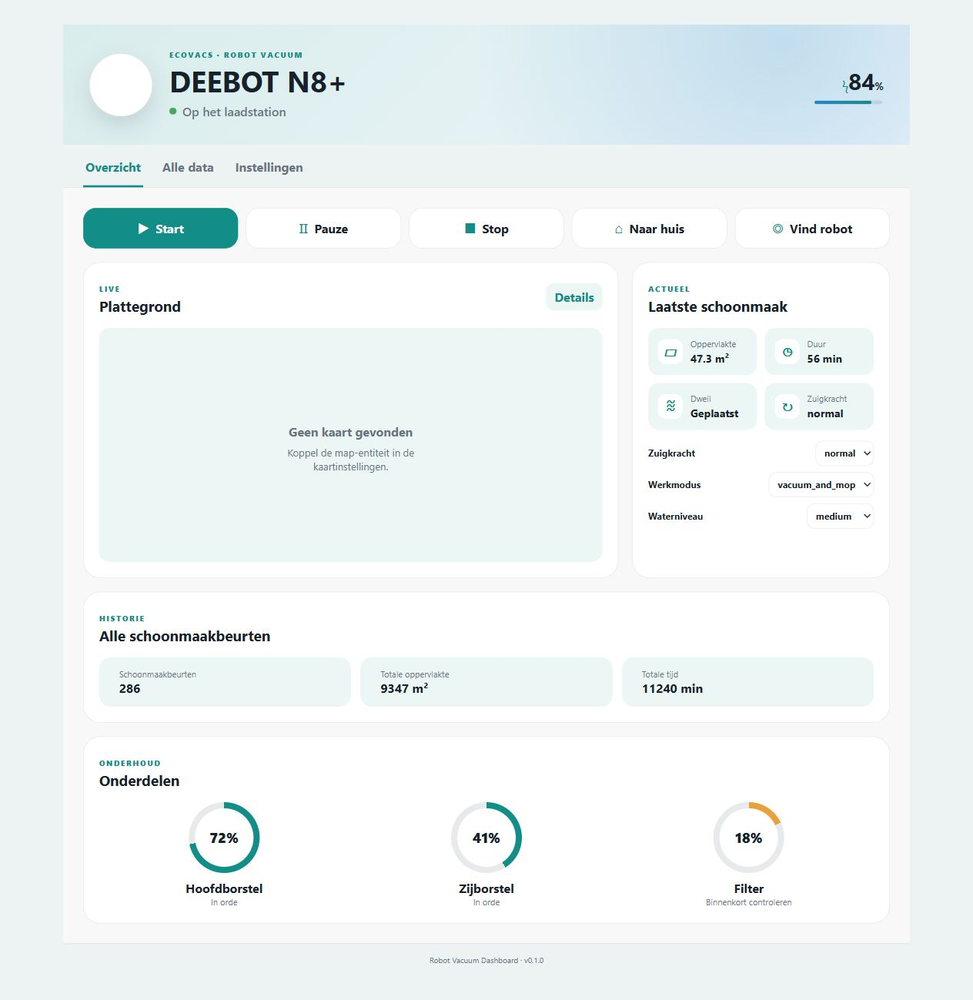
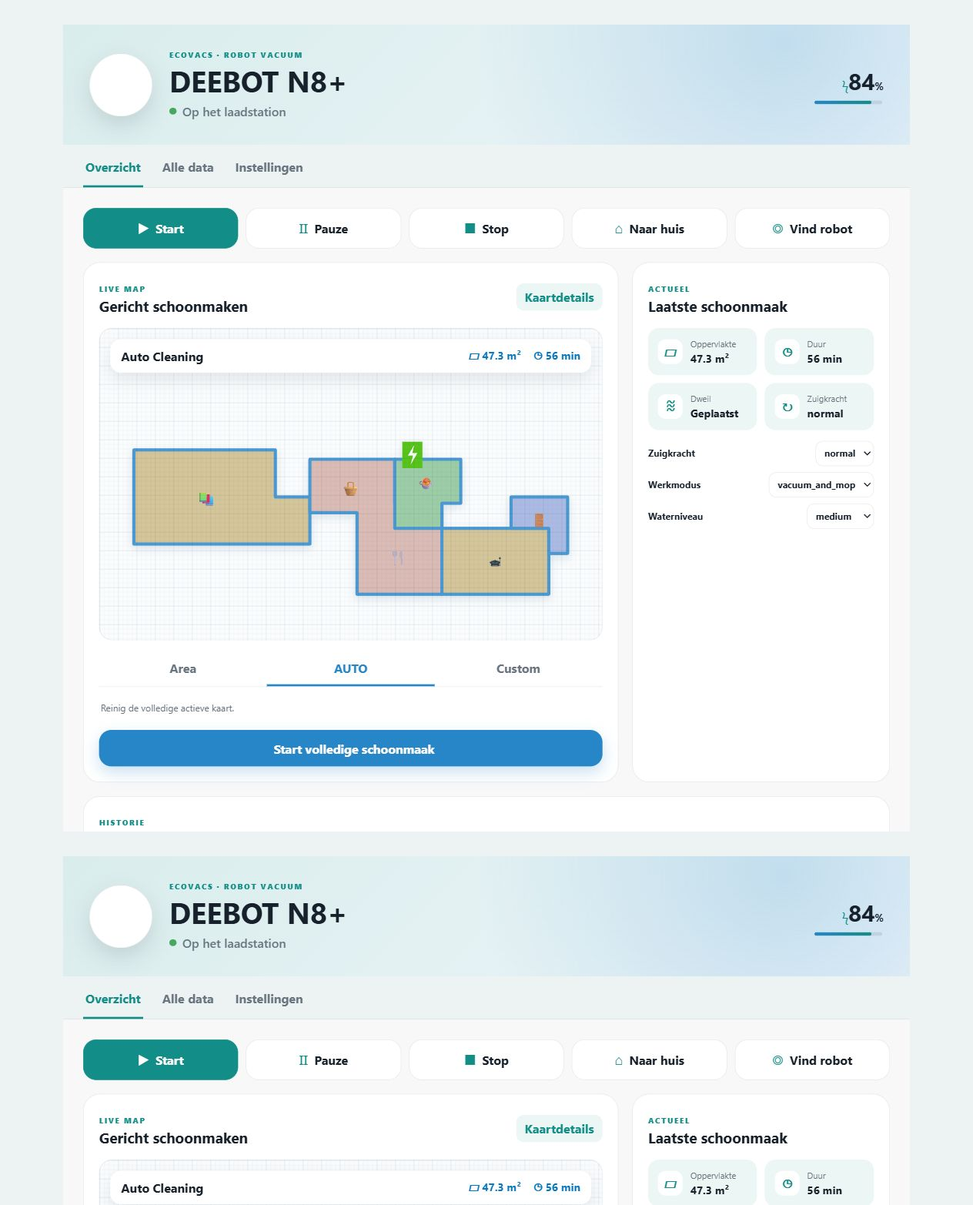
Add targeted area and region cleaning

diff --git a/robot-vacuum-dashboard.js b/robot-vacuum-dashboard.js
@@ -1,4 +1,4 @@
-const ROBOT_VACUUM_DASHBOARD_VERSION = "0.1.1";
+const ROBOT_VACUUM_DASHBOARD_VERSION = "0.2.0";
 
 const RVD_LABELS = {
   cleaning: "Aan het schoonmaken",
@@ -43,6 +43,9 @@ class RobotVacuumDashboardCard extends HTMLElement {
     super();
     this.attachShadow({ mode: "open" });
     this._tab = "overview";
+    this._cleanMode = "auto";
+    this._selectedAreas = new Set();
+    this._selectedRegion = null;
     this._renderQueued = false;
   }
 
@@ -55,6 +58,9 @@ class RobotVacuumDashboardCard extends HTMLElement {
       confirm_actions: true,
       show_map: true,
       show_details: true,
+      cleaning_areas: [],
+      cleaning_regions: [],
+      region_command: "custom_area",
       entities: {},
       ...config,
     };
@@ -212,8 +218,12 @@ class RobotVacuumDashboardCard extends HTMLElement {
       </section>
       <div class="dashboard-grid ${!this.config.show_map ? "without-map" : ""}">
         ${this.config.show_map ? `<section class="panel map-panel">
-          <div class="panel-heading"><div><span class="kicker">LIVE</span><h2>Plattegrond</h2></div>${map ? `<button class="text-button" data-more-info="${rvdEscape(map.entity_id)}">Details</button>` : ""}</div>
-          ${mapUrl ? `<img class="map" src="${rvdEscape(mapUrl)}" alt="Kaart van de schoonmaakzone">` : `<div class="empty"><ha-icon icon="mdi:map-outline"></ha-icon><strong>Geen kaart gevonden</strong><span>Koppel de map-entiteit in de kaartinstellingen.</span></div>`}
+          <div class="panel-heading"><div><span class="kicker">LIVE MAP</span><h2>Gericht schoonmaken</h2></div>${map ? `<button class="text-button" data-more-info="${rvdEscape(map.entity_id)}">Kaartdetails</button>` : ""}</div>
+          <div class="map-stage">
+            <div class="session-card"><span>${this._cleanMode === "area" ? "Area Cleaning" : this._cleanMode === "custom" ? "Custom Cleaning" : "Auto Cleaning"}</span><div><b>${this._icon("area")} ${rvdEscape(this._formatState(this._state("cleaning_area"), "–"))}</b><b>${this._icon("time")} ${rvdEscape(this._formatState(this._state("cleaning_time"), "–"))}</b></div></div>
+            ${mapUrl ? `<img class="map" src="${rvdEscape(mapUrl)}" alt="Kaart van de schoonmaakzone">` : `<div class="empty map-empty"><ha-icon icon="mdi:map-outline"></ha-icon><strong>Geen kaart gevonden</strong><span>Koppel de map-entiteit in de kaartinstellingen.</span></div>`}
+          </div>
+          ${this._cleaningModePanel()}
         </section>` : ""}
         <section class="panel stats-panel">
           <div class="panel-heading"><div><span class="kicker">ACTUEEL</span><h2>Laatste schoonmaak</h2></div></div>
@@ -235,6 +245,39 @@ class RobotVacuumDashboardCard extends HTMLElement {
         </div>
       </section>
       ${this._maintenancePanel()}` : ""}`;
+  }
+
+  _cleaningModePanel() {
+    const areas = Array.isArray(this.config.cleaning_areas) ? this.config.cleaning_areas : [];
+    const regions = Array.isArray(this.config.cleaning_regions) ? this.config.cleaning_regions : [];
+    const modeContent = this._cleanMode === "area"
+      ? (areas.length ? `<div class="target-grid">${areas.map((area) => `<button class="target-chip ${this._selectedAreas.has(area.id) ? "selected" : ""}" data-area-id="${rvdEscape(area.id)}"><ha-icon icon="${rvdEscape(area.icon || "mdi:floor-plan")}"></ha-icon><span>${rvdEscape(area.name || area.id)}</span></button>`).join("")}</div>` : `<p class="target-help">Voeg Home Assistant area-ID's toe via de kaarteditor.</p>`)
+      : this._cleanMode === "custom"
+        ? (regions.length ? `<div class="target-grid">${regions.map((region, index) => `<button class="target-chip ${this._selectedRegion === index ? "selected" : ""}" data-region-index="${index}"><ha-icon icon="${rvdEscape(region.icon || "mdi:vector-rectangle")}"></ha-icon><span>${rvdEscape(region.name || `Zone ${index + 1}`)}</span></button>`).join("")}</div>` : `<p class="target-help">Voeg opgeslagen Ecovacs-coördinaten toe via de kaarteditor.</p>`)
+        : `<p class="target-help">Reinig de volledige actieve kaart.</p>`;
+    const disabled = (this._cleanMode === "area" && !this._selectedAreas.size) || (this._cleanMode === "custom" && this._selectedRegion === null);
+    return `<div class="cleaning-console"><div class="mode-tabs"><button class="${this._cleanMode === "area" ? "active" : ""}" data-clean-mode="area">Area</button><button class="${this._cleanMode === "auto" ? "active" : ""}" data-clean-mode="auto">AUTO</button><button class="${this._cleanMode === "custom" ? "active" : ""}" data-clean-mode="custom">Custom</button></div><div class="target-content">${modeContent}</div><button class="clean-start" data-clean-start ${disabled ? "disabled" : ""}><ha-icon icon="mdi:robot-vacuum"></ha-icon><span>${this._cleanMode === "area" ? "Reinig geselecteerde kamers" : this._cleanMode === "custom" ? "Reinig geselecteerde zone" : "Start volledige schoonmaak"}</span></button></div>`;
+  }
+
+  async _startTargetedCleaning() {
+    if (this._cleanMode === "auto") return this._call("vacuum.start");
+    if (this._cleanMode === "area") {
+      const ids = [...this._selectedAreas];
+      if (!ids.length) return;
+      if (this.config.confirm_actions && !window.confirm(`Wil je ${ids.length} geselecteerde ruimte${ids.length === 1 ? "" : "s"} reinigen?`)) return;
+      await this._hass.callService("vacuum", "clean_area", { cleaning_area_id: ids }, { entity_id: this.config.entity });
+      return;
+    }
+    const region = this.config.cleaning_regions?.[this._selectedRegion];
+    if (!region?.coordinates) return;
+    if (this.config.confirm_actions && !window.confirm(`Wil je de zone ${region.name || "Custom"} reinigen?`)) return;
+    const cleanCountState = this._state("clean_count");
+    const cleanings = Number(cleanCountState?.state || region.cleanings || 1);
+    const coordinates = Array.isArray(region.coordinates) ? region.coordinates.join(",") : String(region.coordinates);
+    await this._hass.callService("vacuum", "send_command", {
+      command: region.command || this.config.region_command || "custom_area",
+      params: { coordinates, cleanings },
+    }, { entity_id: this.config.entity });
   }
 
   _actionButton(service, icon, label, kind = "") {
@@ -316,6 +359,10 @@ class RobotVacuumDashboardCard extends HTMLElement {
     this.shadowRoot.querySelectorAll("[data-tab]").forEach((button) => button.addEventListener("click", () => { this._tab = button.dataset.tab; this._render(); }));
     this.shadowRoot.querySelectorAll("[data-service]").forEach((button) => button.addEventListener("click", () => this._call(button.dataset.service)));
     this.shadowRoot.querySelectorAll("[data-more-info]").forEach((button) => button.addEventListener("click", () => this._moreInfo(button.dataset.moreInfo)));
+    this.shadowRoot.querySelectorAll("[data-clean-mode]").forEach((button) => button.addEventListener("click", () => { this._cleanMode = button.dataset.cleanMode; this._render(); }));
+    this.shadowRoot.querySelectorAll("[data-area-id]").forEach((button) => button.addEventListener("click", () => { const id = button.dataset.areaId; this._selectedAreas.has(id) ? this._selectedAreas.delete(id) : this._selectedAreas.add(id); this._render(); }));
+    this.shadowRoot.querySelectorAll("[data-region-index]").forEach((button) => button.addEventListener("click", () => { this._selectedRegion = Number(button.dataset.regionIndex); this._render(); }));
+    this.shadowRoot.querySelector("[data-clean-start]")?.addEventListener("click", () => this._startTargetedCleaning());
     this.shadowRoot.querySelectorAll("[data-toggle]").forEach((button) => button.addEventListener("click", async () => {
       const id = button.dataset.toggle;
       await this._hass.callService("switch", this._hass.states[id]?.state === "on" ? "turn_off" : "turn_on", {}, { entity_id: id });
@@ -328,8 +375,8 @@ class RobotVacuumDashboardCard extends HTMLElement {
 
   _styles() {
     return `
-      :host{--accent:var(--primary-color,#138d88);--accent-2:#2786c7;--ink:var(--primary-text-color,#17212b);--muted:var(--secondary-text-color,#6c7782);--surface:var(--ha-card-background,var(--card-background-color,#fff));--soft:color-mix(in srgb,var(--accent) 8%,var(--surface));--line:color-mix(in srgb,var(--ink) 10%,transparent);--danger:var(--error-color,#d84b4b);--warning:#e9a23b;display:block}*{box-sizing:border-box}ha-card{overflow:hidden;border-radius:28px;background:var(--surface);color:var(--ink);font-family:var(--paper-font-body1_-_font-family,system-ui,sans-serif)}button,select{font:inherit;color:inherit}.hero{min-height:156px;padding:30px 34px;display:flex;align-items:center;gap:22px;background:radial-gradient(circle at 85% 15%,color-mix(in srgb,var(--accent-2) 20%,transparent),transparent 42%),linear-gradient(135deg,color-mix(in srgb,var(--accent) 16%,var(--surface)),color-mix(in srgb,var(--accent-2) 8%,var(--surface)))}.hero-error{background:linear-gradient(135deg,color-mix(in srgb,var(--danger) 15%,var(--surface)),var(--surface))}.robot{width:82px;height:82px;border-radius:50%;display:grid;place-items:center;background:var(--surface);box-shadow:0 12px 30px color-mix(in srgb,var(--ink) 14%,transparent);border:1px solid var(--line)}.robot ha-icon{--mdc-icon-size:48px;color:var(--accent)}.robot.working{animation:rvdPulse 2s infinite}.hero-copy{min-width:0;flex:1}.eyebrow,.kicker{font-size:10px;letter-spacing:.16em;font-weight:800;color:var(--accent)}h1,h2,p{margin:0}h1{font-size:clamp(25px,4vw,38px);line-height:1.12;margin:5px 0 8px}.hero p{display:flex;align-items:center;gap:8px;color:var(--muted);font-weight:600}.status-dot{width:9px;height:9px;border-radius:50%;background:var(--muted)}.status-dot.cleaning{background:var(--accent);box-shadow:0 0 0 5px color-mix(in srgb,var(--accent) 14%,transparent)}.status-dot.error{background:var(--danger)}.status-dot.docked{background:#47a760}.battery{text-align:right;min-width:90px}.battery>span{color:var(--accent)}.battery strong{font-size:30px}.battery small{font-weight:700}.battery-track{width:88px;height:5px;background:var(--line);border-radius:4px;margin-top:6px;overflow:hidden}.battery-track i{display:block;height:100%;background:linear-gradient(90deg,var(--accent-2),var(--accent));border-radius:4px}nav{display:flex;padding:0 26px;border-bottom:1px solid var(--line);gap:22px}.nav-button{border:0;background:none;padding:17px 3px 14px;color:var(--muted);font-weight:700;cursor:pointer;border-bottom:3px solid transparent}.nav-button.active{color:var(--accent);border-color:var(--accent)}main{padding:26px;background:color-mix(in srgb,var(--surface) 97%,var(--ink))}.actions{display:grid;grid-template-columns:repeat(5,1fr);gap:10px;margin-bottom:18px}.action{border:1px solid var(--line);background:var(--surface);border-radius:17px;padding:13px 8px;display:flex;align-items:center;justify-content:center;gap:8px;cursor:pointer;transition:.18s}.action:hover{transform:translateY(-2px);border-color:color-mix(in srgb,var(--accent) 50%,var(--line));box-shadow:0 8px 20px color-mix(in srgb,var(--ink) 8%,transparent)}.action span{color:var(--accent);font-size:18px}.action.primary{background:var(--accent);color:white;border-color:var(--accent)}.action.primary span{color:white}.dashboard-grid{display:grid;grid-template-columns:minmax(0,1.35fr) minmax(280px,.65fr);gap:18px}.dashboard-grid.without-map{grid-template-columns:1fr}.panel{background:var(--surface);border:1px solid var(--line);border-radius:22px;padding:20px;min-width:0}.panel-heading{display:flex;justify-content:space-between;align-items:center;margin-bottom:16px}.panel-heading h2{font-size:19px;margin-top:2px}.text-button{border:0;background:var(--soft);color:var(--accent);padding:7px 11px;border-radius:10px;cursor:pointer;font-weight:700}.map-panel{min-height:410px;display:flex;flex-direction:column}.map{width:100%;height:100%;min-height:330px;object-fit:contain;border-radius:14px;background:color-mix(in srgb,var(--ink) 4%,var(--surface))}.empty{flex:1;min-height:290px;display:flex;flex-direction:column;align-items:center;justify-content:center;text-align:center;color:var(--muted);gap:8px;background:var(--soft);border-radius:14px}.empty ha-icon{--mdc-icon-size:48px;color:var(--accent)}.empty span{font-size:13px;max-width:260px}.empty.compact{min-height:110px}.metric-grid{display:grid;grid-template-columns:1fr 1fr;gap:10px}.metric{background:var(--soft);padding:13px;border-radius:14px;display:flex;gap:10px;align-items:center}.metric-icon{width:32px;height:32px;display:grid;place-items:center;border-radius:10px;background:var(--surface);color:var(--accent);font-weight:800}.metric small,.total small,.life small{display:block;color:var(--muted);font-size:11px}.metric strong{display:block;margin-top:2px;font-size:14px}.control-list{margin-top:14px;display:grid;gap:8px}.control-list label{display:flex;justify-content:space-between;align-items:center;font-size:12px;font-weight:700}.control-list select{max-width:58%;border:1px solid var(--line);border-radius:10px;padding:7px;background:var(--surface)}.totals,.maintenance{margin-top:18px}.total-grid{display:grid;grid-template-columns:repeat(3,1fr);gap:12px}.total{display:flex;align-items:center;gap:12px;padding:14px;border-radius:15px;background:var(--soft)}.total ha-icon{color:var(--accent)}.total strong{font-size:16px}.maintenance-grid{display:grid;grid-template-columns:repeat(3,1fr);gap:16px}.life{text-align:center}.life>strong{display:block;margin-top:9px}.ring{--value:0;width:92px;height:92px;margin:auto;border-radius:50%;display:grid;place-items:center;background:conic-gradient(var(--ring) calc(var(--value)*1%),var(--line) 0);position:relative}.ring:before{content:"";position:absolute;inset:8px;border-radius:50%;background:var(--surface)}.ring span{position:relative;font-size:18px;font-weight:800}.alert{display:flex;gap:12px;align-items:center;background:color-mix(in srgb,var(--danger) 12%,var(--surface));border:1px solid color-mix(in srgb,var(--danger) 35%,transparent);border-radius:16px;padding:14px;margin-bottom:16px;color:var(--danger)}.alert div span{display:block;font-size:12px;margin-top:2px}.entity-list,.switch-list{display:grid}.entity-row,.switch-row{width:100%;border:0;border-bottom:1px solid var(--line);background:none;padding:13px 4px;display:flex;align-items:center;gap:12px;text-align:left;cursor:pointer}.entity-row:hover,.switch-row:hover{background:var(--soft)}.entity-row ha-icon,.switch-row ha-icon{color:var(--accent)}.entity-row>span{flex:1;min-width:0}.entity-row strong,.entity-row small{display:block;overflow:hidden;text-overflow:ellipsis}.entity-row small{color:var(--muted);font-size:10px;margin-top:2px}.entity-row>b{max-width:35%;text-align:right;font-size:12px}.count{font-size:11px;color:var(--muted)}.settings-grid{display:grid;grid-template-columns:1fr 1fr;gap:18px}.switch-row span{flex:1;font-weight:650}.toggle{width:38px;height:22px;border-radius:12px;background:var(--line);position:relative}.toggle:after{content:"";position:absolute;width:16px;height:16px;left:3px;top:3px;border-radius:50%;background:var(--surface);transition:.2s}.toggle.on{background:var(--accent)}.toggle.on:after{left:19px}.config-summary p{display:flex;justify-content:space-between;gap:12px;border-bottom:1px solid var(--line);padding:11px 0;font-size:12px}.config-summary strong{text-align:right;word-break:break-all}.hint{font-size:12px;color:var(--muted);margin-top:14px;line-height:1.5}footer{text-align:center;color:var(--muted);font-size:10px;padding:14px;border-top:1px solid var(--line)}.missing{padding:30px;color:var(--danger)}@keyframes rvdPulse{50%{box-shadow:0 0 0 10px color-mix(in srgb,var(--accent) 10%,transparent),0 12px 30px color-mix(in srgb,var(--ink) 14%,transparent)}}
-      @media(max-width:780px){.hero{padding:23px 20px}.robot{width:64px;height:64px}.robot ha-icon{--mdc-icon-size:38px}.battery{min-width:58px}.battery-track{width:58px}main{padding:15px}.dashboard-grid,.settings-grid{grid-template-columns:1fr}.actions{grid-template-columns:repeat(5,minmax(58px,1fr));overflow:auto}.action{flex-direction:column;gap:3px;font-size:10px}.map-panel{min-height:330px}.map{min-height:250px}.total-grid{grid-template-columns:1fr}.maintenance-grid{gap:8px}.ring{width:72px;height:72px}.panel{padding:16px}nav{padding:0 15px;gap:14px}.nav-button{font-size:12px}}
+      :host{--accent:var(--primary-color,#138d88);--accent-2:#2786c7;--ink:var(--primary-text-color,#17212b);--muted:var(--secondary-text-color,#6c7782);--surface:var(--ha-card-background,var(--card-background-color,#fff));--soft:color-mix(in srgb,var(--accent) 8%,var(--surface));--line:color-mix(in srgb,var(--ink) 10%,transparent);--danger:var(--error-color,#d84b4b);--warning:#e9a23b;display:block}*{box-sizing:border-box}ha-card{overflow:hidden;border-radius:28px;background:var(--surface);color:var(--ink);font-family:var(--paper-font-body1_-_font-family,system-ui,sans-serif)}button,select{font:inherit;color:inherit}.hero{min-height:156px;padding:30px 34px;display:flex;align-items:center;gap:22px;background:radial-gradient(circle at 85% 15%,color-mix(in srgb,var(--accent-2) 20%,transparent),transparent 42%),linear-gradient(135deg,color-mix(in srgb,var(--accent) 16%,var(--surface)),color-mix(in srgb,var(--accent-2) 8%,var(--surface)))}.hero-error{background:linear-gradient(135deg,color-mix(in srgb,var(--danger) 15%,var(--surface)),var(--surface))}.robot{width:82px;height:82px;border-radius:50%;display:grid;place-items:center;background:var(--surface);box-shadow:0 12px 30px color-mix(in srgb,var(--ink) 14%,transparent);border:1px solid var(--line)}.robot ha-icon{--mdc-icon-size:48px;color:var(--accent)}.robot.working{animation:rvdPulse 2s infinite}.hero-copy{min-width:0;flex:1}.eyebrow,.kicker{font-size:10px;letter-spacing:.16em;font-weight:800;color:var(--accent)}h1,h2,p{margin:0}h1{font-size:clamp(25px,4vw,38px);line-height:1.12;margin:5px 0 8px}.hero p{display:flex;align-items:center;gap:8px;color:var(--muted);font-weight:600}.status-dot{width:9px;height:9px;border-radius:50%;background:var(--muted)}.status-dot.cleaning{background:var(--accent);box-shadow:0 0 0 5px color-mix(in srgb,var(--accent) 14%,transparent)}.status-dot.error{background:var(--danger)}.status-dot.docked{background:#47a760}.battery{text-align:right;min-width:90px}.battery>span{color:var(--accent)}.battery strong{font-size:30px}.battery small{font-weight:700}.battery-track{width:88px;height:5px;background:var(--line);border-radius:4px;margin-top:6px;overflow:hidden}.battery-track i{display:block;height:100%;background:linear-gradient(90deg,var(--accent-2),var(--accent));border-radius:4px}nav{display:flex;padding:0 26px;border-bottom:1px solid var(--line);gap:22px}.nav-button{border:0;background:none;padding:17px 3px 14px;color:var(--muted);font-weight:700;cursor:pointer;border-bottom:3px solid transparent}.nav-button.active{color:var(--accent);border-color:var(--accent)}main{padding:26px;background:color-mix(in srgb,var(--surface) 97%,var(--ink))}.actions{display:grid;grid-template-columns:repeat(5,1fr);gap:10px;margin-bottom:18px}.action{border:1px solid var(--line);background:var(--surface);border-radius:17px;padding:13px 8px;display:flex;align-items:center;justify-content:center;gap:8px;cursor:pointer;transition:.18s}.action:hover{transform:translateY(-2px);border-color:color-mix(in srgb,var(--accent) 50%,var(--line));box-shadow:0 8px 20px color-mix(in srgb,var(--ink) 8%,transparent)}.action span{color:var(--accent);font-size:18px}.action.primary{background:var(--accent);color:white;border-color:var(--accent)}.action.primary span{color:white}.dashboard-grid{display:grid;grid-template-columns:minmax(0,1.35fr) minmax(280px,.65fr);gap:18px}.dashboard-grid.without-map{grid-template-columns:1fr}.panel{background:var(--surface);border:1px solid var(--line);border-radius:22px;padding:20px;min-width:0}.panel-heading{display:flex;justify-content:space-between;align-items:center;margin-bottom:16px}.panel-heading h2{font-size:19px;margin-top:2px}.text-button{border:0;background:var(--soft);color:var(--accent);padding:7px 11px;border-radius:10px;cursor:pointer;font-weight:700}.map-panel{min-height:410px;display:flex;flex-direction:column}.map-stage{position:relative;min-height:390px;overflow:hidden;border-radius:17px;border:1px solid var(--line);background-color:#fbfcfd;background-image:linear-gradient(rgba(64,116,150,.075) 1px,transparent 1px),linear-gradient(90deg,rgba(64,116,150,.075) 1px,transparent 1px),linear-gradient(rgba(64,116,150,.035) 1px,transparent 1px),linear-gradient(90deg,rgba(64,116,150,.035) 1px,transparent 1px);background-size:24px 24px,24px 24px,6px 6px,6px 6px}.map{width:100%;height:100%;min-height:390px;object-fit:contain;padding:70px 16px 12px;filter:drop-shadow(0 4px 6px rgba(24,88,128,.14));mix-blend-mode:multiply}.session-card{position:absolute;z-index:2;top:14px;left:14px;right:14px;padding:11px 14px;border-radius:14px;background:color-mix(in srgb,var(--surface) 94%,transparent);box-shadow:0 8px 24px rgba(25,57,75,.12);backdrop-filter:blur(8px);display:flex;align-items:center;justify-content:space-between;gap:12px}.session-card>span{font-weight:750}.session-card>div{display:flex;gap:16px;color:#0877bd}.session-card b{font-size:14px}.map-empty{min-height:390px;background:transparent}.cleaning-console{padding-top:14px}.mode-tabs{display:grid;grid-template-columns:repeat(3,1fr);border-bottom:1px solid var(--line)}.mode-tabs button{border:0;background:none;padding:11px;color:var(--muted);font-weight:650;cursor:pointer;border-bottom:3px solid transparent}.mode-tabs button.active{color:var(--accent-2);border-color:var(--accent-2)}.target-content{padding:12px 0;min-height:56px}.target-grid{display:flex;gap:8px;overflow:auto;padding:2px}.target-chip{flex:0 0 auto;border:1px solid var(--line);background:var(--surface);border-radius:13px;padding:9px 12px;display:flex;align-items:center;gap:7px;cursor:pointer}.target-chip ha-icon{color:var(--accent-2)}.target-chip.selected{border-color:var(--accent-2);background:color-mix(in srgb,var(--accent-2) 12%,var(--surface));color:var(--accent-2)}.target-help{font-size:12px;color:var(--muted);padding:7px 2px}.clean-start{width:100%;border:0;border-radius:16px;padding:13px;background:var(--accent-2);color:white;font-weight:750;display:flex;align-items:center;justify-content:center;gap:9px;cursor:pointer;box-shadow:0 8px 20px color-mix(in srgb,var(--accent-2) 25%,transparent)}.clean-start:disabled{opacity:.45;box-shadow:none;cursor:not-allowed}.empty{flex:1;min-height:290px;display:flex;flex-direction:column;align-items:center;justify-content:center;text-align:center;color:var(--muted);gap:8px;background:var(--soft);border-radius:14px}.empty ha-icon{--mdc-icon-size:48px;color:var(--accent)}.empty span{font-size:13px;max-width:260px}.empty.compact{min-height:110px}.metric-grid{display:grid;grid-template-columns:1fr 1fr;gap:10px}.metric{background:var(--soft);padding:13px;border-radius:14px;display:flex;gap:10px;align-items:center}.metric-icon{width:32px;height:32px;display:grid;place-items:center;border-radius:10px;background:var(--surface);color:var(--accent);font-weight:800}.metric small,.total small,.life small{display:block;color:var(--muted);font-size:11px}.metric strong{display:block;margin-top:2px;font-size:14px}.control-list{margin-top:14px;display:grid;gap:8px}.control-list label{display:flex;justify-content:space-between;align-items:center;font-size:12px;font-weight:700}.control-list select{max-width:58%;border:1px solid var(--line);border-radius:10px;padding:7px;background:var(--surface)}.totals,.maintenance{margin-top:18px}.total-grid{display:grid;grid-template-columns:repeat(3,1fr);gap:12px}.total{display:flex;align-items:center;gap:12px;padding:14px;border-radius:15px;background:var(--soft)}.total ha-icon{color:var(--accent)}.total strong{font-size:16px}.maintenance-grid{display:grid;grid-template-columns:repeat(3,1fr);gap:16px}.life{text-align:center}.life>strong{display:block;margin-top:9px}.ring{--value:0;width:92px;height:92px;margin:auto;border-radius:50%;display:grid;place-items:center;background:conic-gradient(var(--ring) calc(var(--value)*1%),var(--line) 0);position:relative}.ring:before{content:"";position:absolute;inset:8px;border-radius:50%;background:var(--surface)}.ring span{position:relative;font-size:18px;font-weight:800}.alert{display:flex;gap:12px;align-items:center;background:color-mix(in srgb,var(--danger) 12%,var(--surface));border:1px solid color-mix(in srgb,var(--danger) 35%,transparent);border-radius:16px;padding:14px;margin-bottom:16px;color:var(--danger)}.alert div span{display:block;font-size:12px;margin-top:2px}.entity-list,.switch-list{display:grid}.entity-row,.switch-row{width:100%;border:0;border-bottom:1px solid var(--line);background:none;padding:13px 4px;display:flex;align-items:center;gap:12px;text-align:left;cursor:pointer}.entity-row:hover,.switch-row:hover{background:var(--soft)}.entity-row ha-icon,.switch-row ha-icon{color:var(--accent)}.entity-row>span{flex:1;min-width:0}.entity-row strong,.entity-row small{display:block;overflow:hidden;text-overflow:ellipsis}.entity-row small{color:var(--muted);font-size:10px;margin-top:2px}.entity-row>b{max-width:35%;text-align:right;font-size:12px}.count{font-size:11px;color:var(--muted)}.settings-grid{display:grid;grid-template-columns:1fr 1fr;gap:18px}.switch-row span{flex:1;font-weight:650}.toggle{width:38px;height:22px;border-radius:12px;background:var(--line);position:relative}.toggle:after{content:"";position:absolute;width:16px;height:16px;left:3px;top:3px;border-radius:50%;background:var(--surface);transition:.2s}.toggle.on{background:var(--accent)}.toggle.on:after{left:19px}.config-summary p{display:flex;justify-content:space-between;gap:12px;border-bottom:1px solid var(--line);padding:11px 0;font-size:12px}.config-summary strong{text-align:right;word-break:break-all}.hint{font-size:12px;color:var(--muted);margin-top:14px;line-height:1.5}footer{text-align:center;color:var(--muted);font-size:10px;padding:14px;border-top:1px solid var(--line)}.missing{padding:30px;color:var(--danger)}@keyframes rvdPulse{50%{box-shadow:0 0 0 10px color-mix(in srgb,var(--accent) 10%,transparent),0 12px 30px color-mix(in srgb,var(--ink) 14%,transparent)}}
+      @media(max-width:780px){.hero{padding:23px 20px}.robot{width:64px;height:64px}.robot ha-icon{--mdc-icon-size:38px}.battery{min-width:58px}.battery-track{width:58px}main{padding:15px}.dashboard-grid,.settings-grid{grid-template-columns:1fr}.actions{grid-template-columns:repeat(5,minmax(58px,1fr));overflow:auto}.action{flex-direction:column;gap:3px;font-size:10px}.map-panel{min-height:330px}.map-stage,.map-empty{min-height:330px}.map{min-height:330px;padding-top:74px}.session-card{font-size:12px}.session-card>div{gap:9px}.session-card b{font-size:12px}.total-grid{grid-template-columns:1fr}.maintenance-grid{gap:8px}.ring{width:72px;height:72px}.panel{padding:16px}nav{padding:0 15px;gap:14px}.nav-button{font-size:12px}}
       @media(max-width:480px){.hero{display:grid;grid-template-columns:54px minmax(0,1fr);gap:5px 12px}.robot{width:54px;height:54px;grid-row:1 / span 2}.hero-copy{grid-column:2}.eyebrow{display:none}h1{font-size:21px}.battery{grid-column:2;display:flex;align-items:center;gap:2px;text-align:left;min-width:0}.battery strong{font-size:20px}.battery-track{width:70px;margin:0 0 0 7px}.metric-grid{grid-template-columns:1fr}.maintenance-grid{grid-template-columns:1fr 1fr 1fr}.life>strong{font-size:11px}.life small{display:none}.ring{width:64px;height:64px}.ring span{font-size:14px}}
     `;
   }
@@ -353,9 +400,12 @@ class RobotVacuumDashboardCardEditor extends HTMLElement {
       ["work_mode", "Werkmodus"], ["clean_count", "Aantal rondes"], ["error", "Foutstatus"],
       ["main_brush", "Hoofdborstel"], ["side_brush", "Zijborstel"], ["filter", "Filter"],
     ];
-    this.shadowRoot.innerHTML = `<style>:host{display:block;padding:8px 0;font-family:system-ui,sans-serif}.editor{display:grid;gap:14px}.group{border:1px solid var(--divider-color,#ddd);border-radius:12px;padding:14px}.group h3{font-size:14px;margin:0 0 12px}.field{display:grid;gap:5px;margin:10px 0}.field span{font-size:12px;color:var(--secondary-text-color)}input,select{width:100%;padding:10px;border:1px solid var(--divider-color,#ccc);border-radius:8px;background:var(--card-background-color,#fff);color:var(--primary-text-color);box-sizing:border-box}.checks{display:grid;grid-template-columns:1fr 1fr;gap:8px}.check{display:flex;align-items:center;gap:7px;font-size:12px}.check input{width:auto}</style><div class="editor"><div class="group"><h3>Robotstofzuiger</h3><label class="field"><span>Vacuümentiteit</span><select data-key="entity"><option value="">Kies een robot…</option>${vacuumOptions.map((id) => `<option value="${rvdEscape(id)}" ${this.config.entity === id ? "selected" : ""}>${rvdEscape(this._hass.states[id].attributes?.friendly_name || id)}</option>`).join("")}</select></label><label class="field"><span>Naam</span><input data-key="name" value="${rvdEscape(this.config.name || "")}" placeholder="Robotstofzuiger"></label><div class="checks">${[["confirm_actions","Acties bevestigen",true],["show_map","Kaart tonen",true],["show_details","Details tonen",true]].map(([key,label,defaultValue]) => `<label class="check"><input type="checkbox" data-key="${key}" ${(this.config[key] ?? defaultValue) ? "checked" : ""}>${label}</label>`).join("")}</div></div><details class="group"><summary><strong>Handmatige entiteitstoewijzing</strong></summary><p style="font-size:12px;color:var(--secondary-text-color)">Laat velden leeg om entiteiten automatisch te herkennen.</p>${fields.map(([key,label]) => `<label class="field"><span>${label}</span><input data-entity-key="${key}" value="${rvdEscape(this.config.entities?.[key] || "")}" placeholder="Automatisch"></label>`).join("")}</details></div>`;
+    const areaLines = (this.config.cleaning_areas || []).map((area) => `${area.name || area.id}|${area.id}|${area.icon || "mdi:floor-plan"}`).join("\n");
+    const regionLines = (this.config.cleaning_regions || []).map((region) => `${region.name || "Zone"}|${Array.isArray(region.coordinates) ? region.coordinates.join(",") : region.coordinates}|${region.icon || "mdi:vector-rectangle"}`).join("\n");
+    this.shadowRoot.innerHTML = `<style>:host{display:block;padding:8px 0;font-family:system-ui,sans-serif}.editor{display:grid;gap:14px}.group{border:1px solid var(--divider-color,#ddd);border-radius:12px;padding:14px}.group h3{font-size:14px;margin:0 0 12px}.field{display:grid;gap:5px;margin:10px 0}.field span,.help{font-size:12px;color:var(--secondary-text-color)}input,select,textarea{width:100%;padding:10px;border:1px solid var(--divider-color,#ccc);border-radius:8px;background:var(--card-background-color,#fff);color:var(--primary-text-color);box-sizing:border-box}textarea{min-height:92px;resize:vertical;font-family:ui-monospace,monospace;font-size:12px}.checks{display:grid;grid-template-columns:1fr 1fr;gap:8px}.check{display:flex;align-items:center;gap:7px;font-size:12px}.check input{width:auto}</style><div class="editor"><div class="group"><h3>Robotstofzuiger</h3><label class="field"><span>Vacuümentiteit</span><select data-key="entity"><option value="">Kies een robot…</option>${vacuumOptions.map((id) => `<option value="${rvdEscape(id)}" ${this.config.entity === id ? "selected" : ""}>${rvdEscape(this._hass.states[id].attributes?.friendly_name || id)}</option>`).join("")}</select></label><label class="field"><span>Naam</span><input data-key="name" value="${rvdEscape(this.config.name || "")}" placeholder="Robotstofzuiger"></label><div class="checks">${[["confirm_actions","Acties bevestigen",true],["show_map","Kaart tonen",true],["show_details","Details tonen",true]].map(([key,label,defaultValue]) => `<label class="check"><input type="checkbox" data-key="${key}" ${(this.config[key] ?? defaultValue) ? "checked" : ""}>${label}</label>`).join("")}</div></div><details class="group" open><summary><strong>Gericht schoonmaken</strong></summary><p class="help">Eén item per regel. Kamers: naam | Home Assistant area-ID | icoon. Zones: naam | x1,y1,x2,y2 | icoon.</p><label class="field"><span>Kamers</span><textarea data-collection="cleaning_areas" placeholder="Keuken|kitchen|mdi:silverware-fork-knife">${rvdEscape(areaLines)}</textarea></label><label class="field"><span>Opgeslagen zones</span><textarea data-collection="cleaning_regions" placeholder="Onder eettafel|-1339,-1511,296,-2587|mdi:table-furniture">${rvdEscape(regionLines)}</textarea></label><label class="field"><span>Ecovacs zonecommando</span><input data-key="region_command" value="${rvdEscape(this.config.region_command || "custom_area")}"></label></details><details class="group"><summary><strong>Handmatige entiteitstoewijzing</strong></summary><p class="help">Laat velden leeg om entiteiten automatisch te herkennen.</p>${fields.map(([key,label]) => `<label class="field"><span>${label}</span><input data-entity-key="${key}" value="${rvdEscape(this.config.entities?.[key] || "")}" placeholder="Automatisch"></label>`).join("")}</details></div>`;
     this.shadowRoot.querySelectorAll("[data-key]").forEach((field) => field.addEventListener("change", () => this._change(field.dataset.key, field.type === "checkbox" ? field.checked : field.value)));
     this.shadowRoot.querySelectorAll("[data-entity-key]").forEach((field) => field.addEventListener("change", () => this._changeEntity(field.dataset.entityKey, field.value)));
+    this.shadowRoot.querySelectorAll("[data-collection]").forEach((field) => field.addEventListener("change", () => this._changeCollection(field.dataset.collection, field.value)));
   }
 
   _emit(config) {
@@ -372,6 +422,17 @@ class RobotVacuumDashboardCardEditor extends HTMLElement {
     const entities = { ...(this.config.entities || {}) };
     if (value) entities[key] = value; else delete entities[key];
     this.config = { ...this.config, entities };
+    this._emit(this.config);
+  }
+
+  _changeCollection(key, value) {
+    const items = String(value).split(/\r?\n/).map((line) => line.trim()).filter(Boolean).map((line) => {
+      const [name, rawValue, icon] = line.split("|").map((part) => part.trim());
+      return key === "cleaning_areas"
+        ? { name: name || rawValue, id: rawValue, icon: icon || "mdi:floor-plan" }
+        : { name: name || "Zone", coordinates: rawValue, icon: icon || "mdi:vector-rectangle" };
+    }).filter((item) => key === "cleaning_areas" ? item.id : item.coordinates);
+    this.config = { ...this.config, [key]: items };
     this._emit(this.config);
   }
 }

diff --git a/scripts/preview.html b/scripts/preview.html
@@ -20,7 +20,7 @@
     const state = (entity_id, value, attributes = {}) => ({ entity_id, state:String(value), attributes });
     const states = {
       "vacuum.deebot_n8_plus": state("vacuum.deebot_n8_plus", "docked", { friendly_name:"DEEBOT N8+", battery_level:84, fan_speed:"normal", fan_speed_list:["quiet","normal","max","max+"] , component_brush:72, component_side_brush:41, component_filter:18 }),
-      "image.deebot_n8_plus_map": state("image.deebot_n8_plus_map", "2026-08-19T10:00:00Z", { friendly_name:"DEEBOT N8+ Map" }),
+      "image.deebot_n8_plus_map": state("image.deebot_n8_plus_map", "2026-08-19T10:00:00Z", { friendly_name:"DEEBOT N8+ Map", entity_picture:"/scripts/mock-map.svg" }),
       "binary_sensor.deebot_n8_plus_mop_attached": state("binary_sensor.deebot_n8_plus_mop_attached", "on", { friendly_name:"Mop attached" }),
       "sensor.deebot_n8_plus_cleaning_cycle_area": state("sensor.deebot_n8_plus_cleaning_cycle_area", 47.3, { friendly_name:"Cleaning cycle area", unit_of_measurement:"m²" }),
       "sensor.deebot_n8_plus_cleaning_cycle_time": state("sensor.deebot_n8_plus_cleaning_cycle_time", 56, { friendly_name:"Cleaning cycle time", unit_of_measurement:"min" }),
@@ -35,8 +35,8 @@
       "sensor.deebot_n8_plus_error": state("sensor.deebot_n8_plus_error", "0", { friendly_name:"Error" }),
     };
     const card = document.querySelector("robot-vacuum-dashboard-card");
-    card.setConfig({ entity:"vacuum.deebot_n8_plus", name:"DEEBOT N8+" });
-    card.hass = { states, hassUrl:(url)=>url, callService:async (...args)=>console.log("service", ...args) };
+    card.setConfig({ entity:"vacuum.deebot_n8_plus", name:"DEEBOT N8+", cleaning_areas:[{name:"Keuken",id:"kitchen",icon:"mdi:silverware-fork-knife"},{name:"Woonkamer",id:"living_room",icon:"mdi:sofa"},{name:"Hal",id:"hallway",icon:"mdi:coat-rack"}], cleaning_regions:[{name:"Onder eettafel",coordinates:"-1339,-1511,296,-2587",icon:"mdi:table-furniture"}] });
+    card.hass = { states, hassUrl:(url)=>url, callService:async (...args)=>console.log("service", JSON.stringify(args)) };
   </script>
 </body>
 </html>

diff --git a/scripts/check-card.js b/scripts/check-card.js
@@ -8,6 +8,9 @@ const required = [
   "getConfigElement",
   "getStubConfig",
   "window.customCards",
+  '"clean_area"',
+  '"custom_area"',
+  "cleaning_area_id",
 ];
 
 const missing = required.filter((token) => !source.includes(token));

diff --git a/CHANGELOG.md b/CHANGELOG.md
@@ -1,5 +1,12 @@
 # Changelog
 
+## 0.2.0
+
+- Add multi-room cleaning through Home Assistant `vacuum.clean_area`.
+- Add configurable saved Ecovacs custom regions.
+- Restyle the map panel after the Ecovacs app with a grid, session card and cleaning modes.
+- Extend the visual editor for rooms, region coordinates and the Ecovacs command.
+
 ## 0.1.1
 
 - Add the required dashboard preview for HACS validation.
